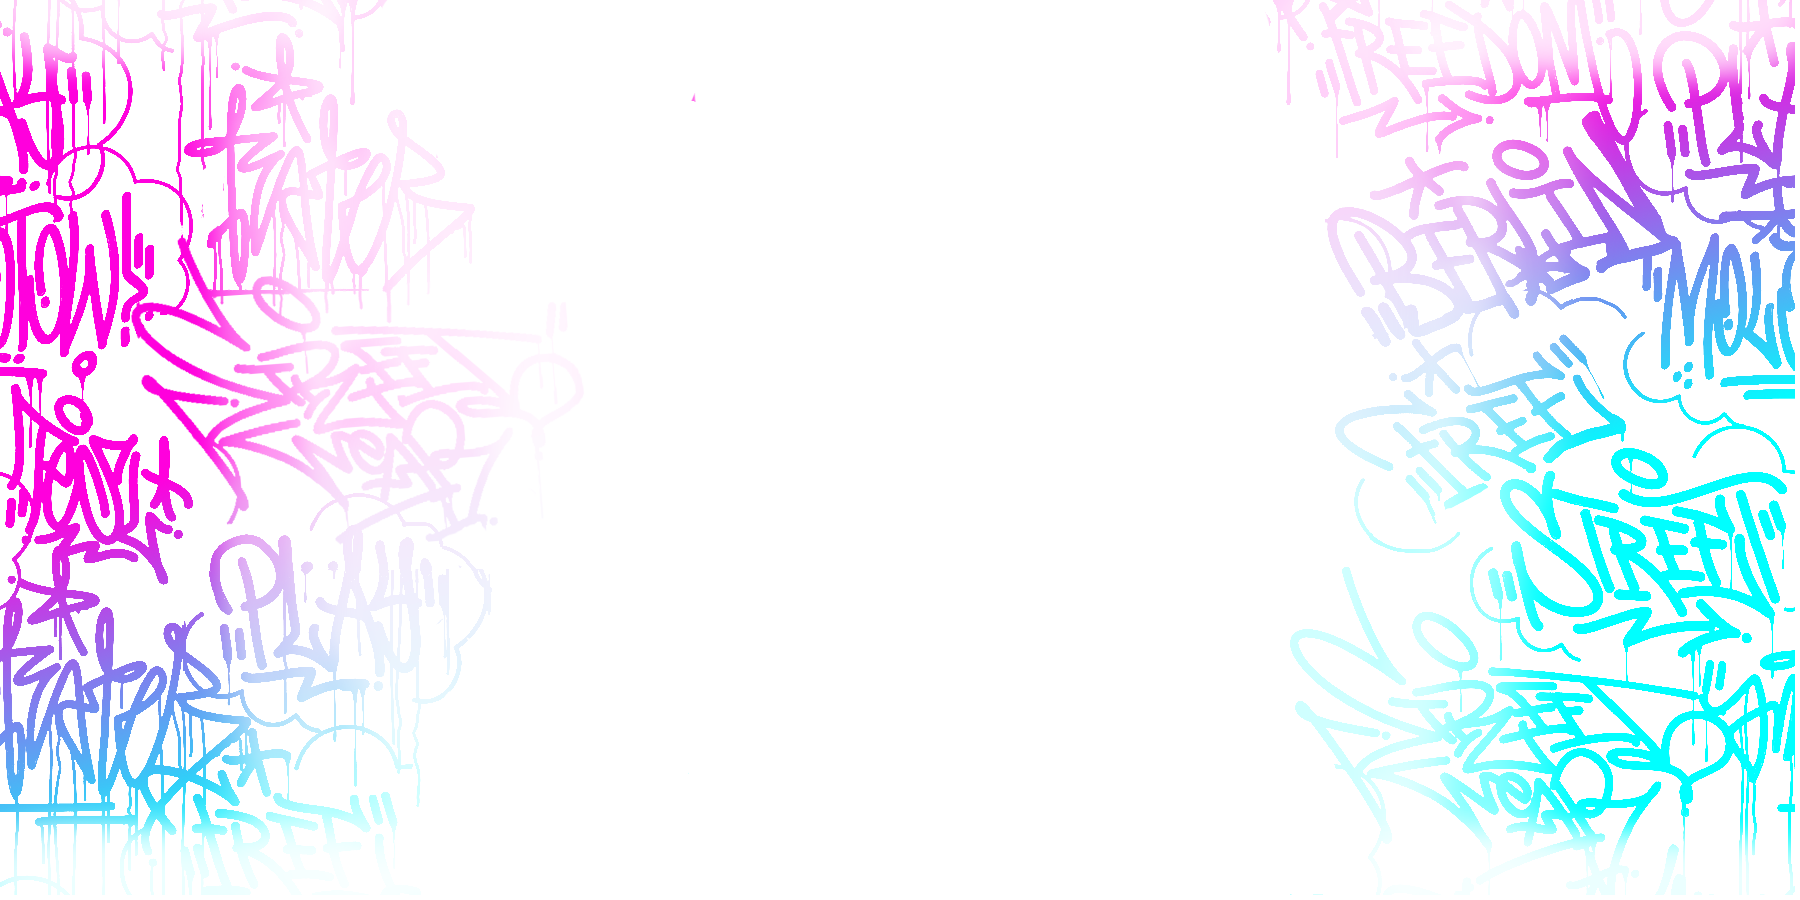
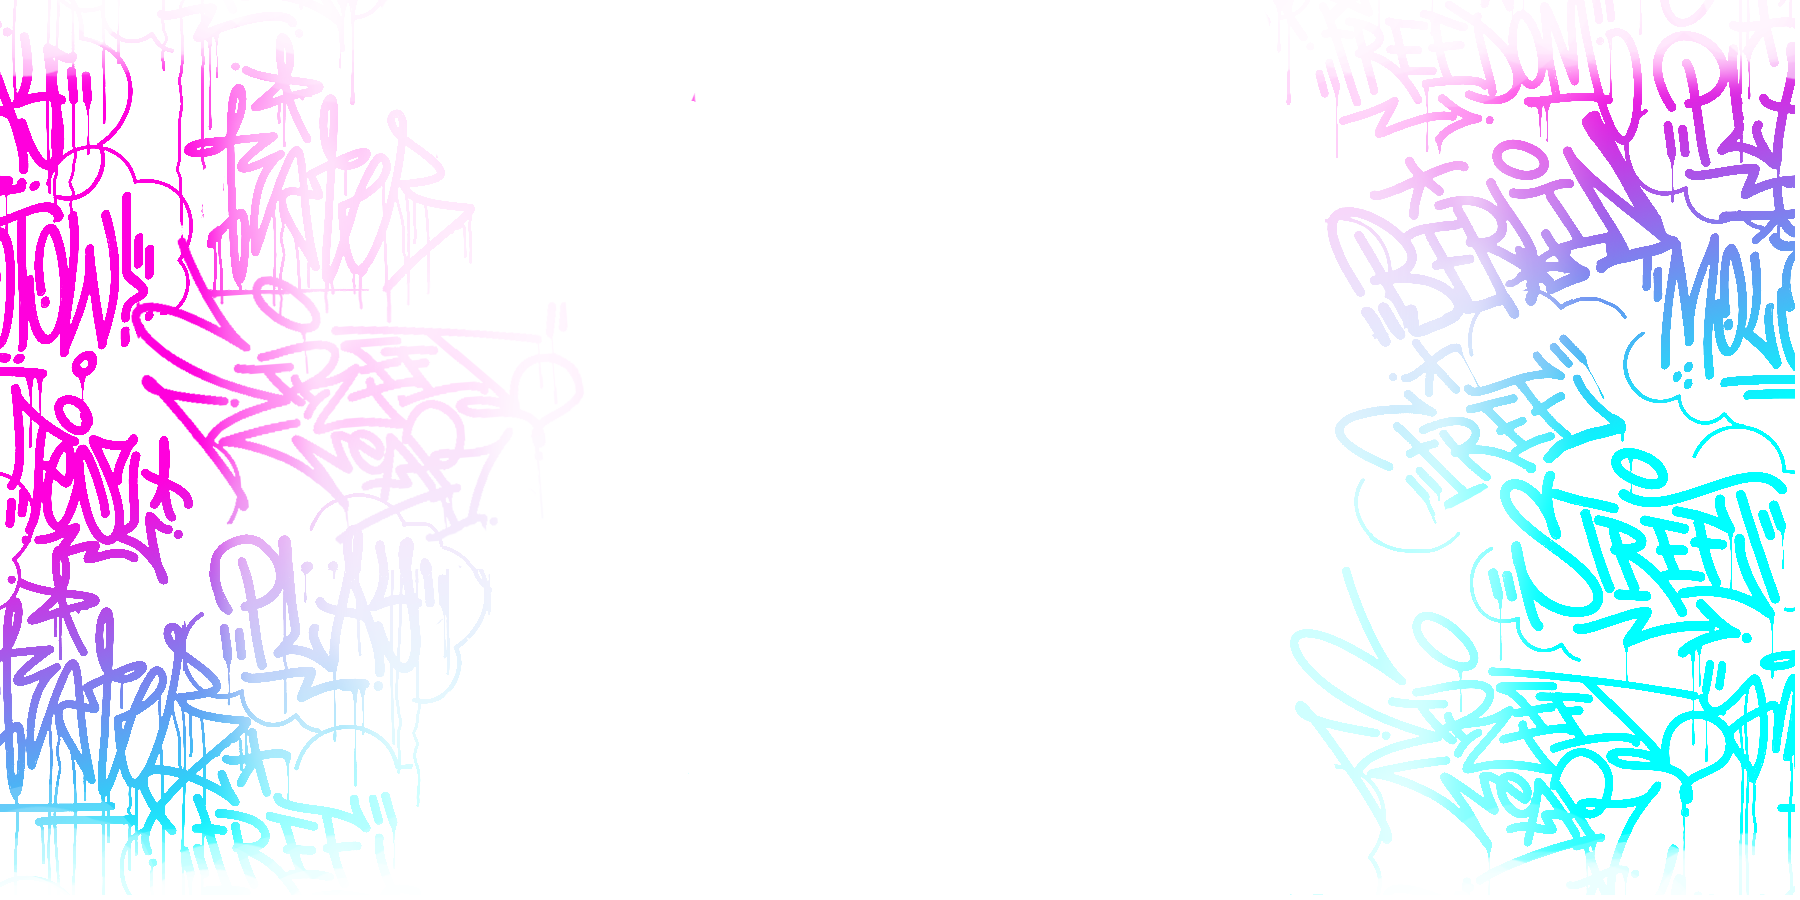
ye

diff --git a/skatehub/styles/styles.css b/skatehub/styles/styles.css
@@ -6,7 +6,7 @@ body {
 }
 #content {
     margin: auto;
-    background-image: url("/images/graffiti2.png");
+    background-image: url("/skatehub/images/graffiti2.png");
     background-size:contain;
 }
 header {
